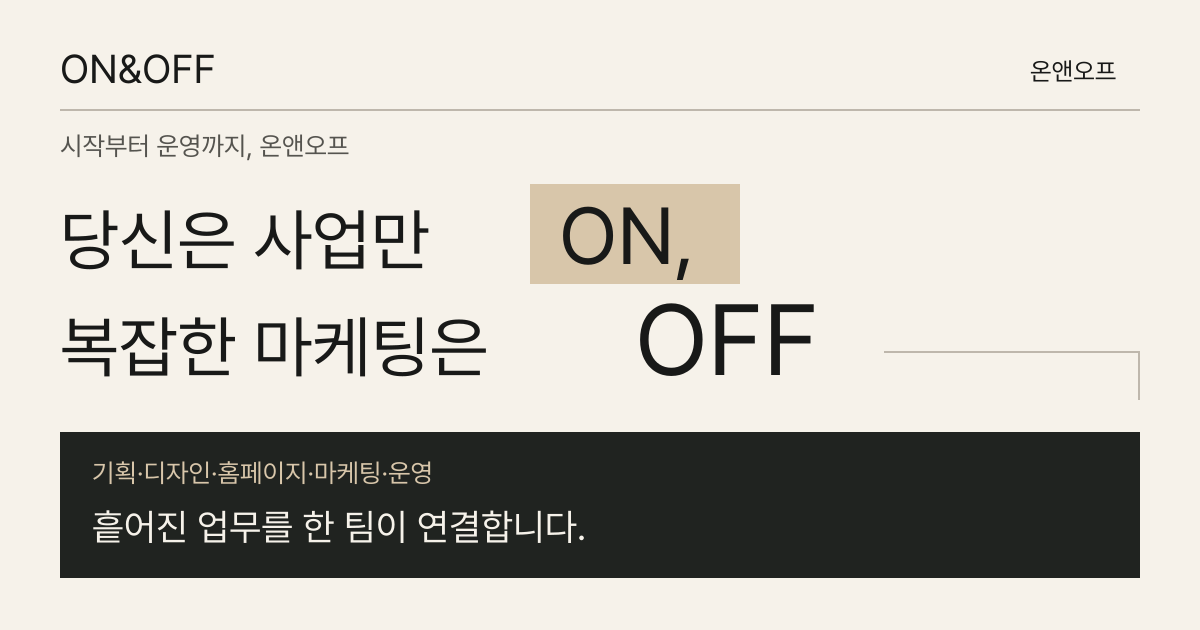
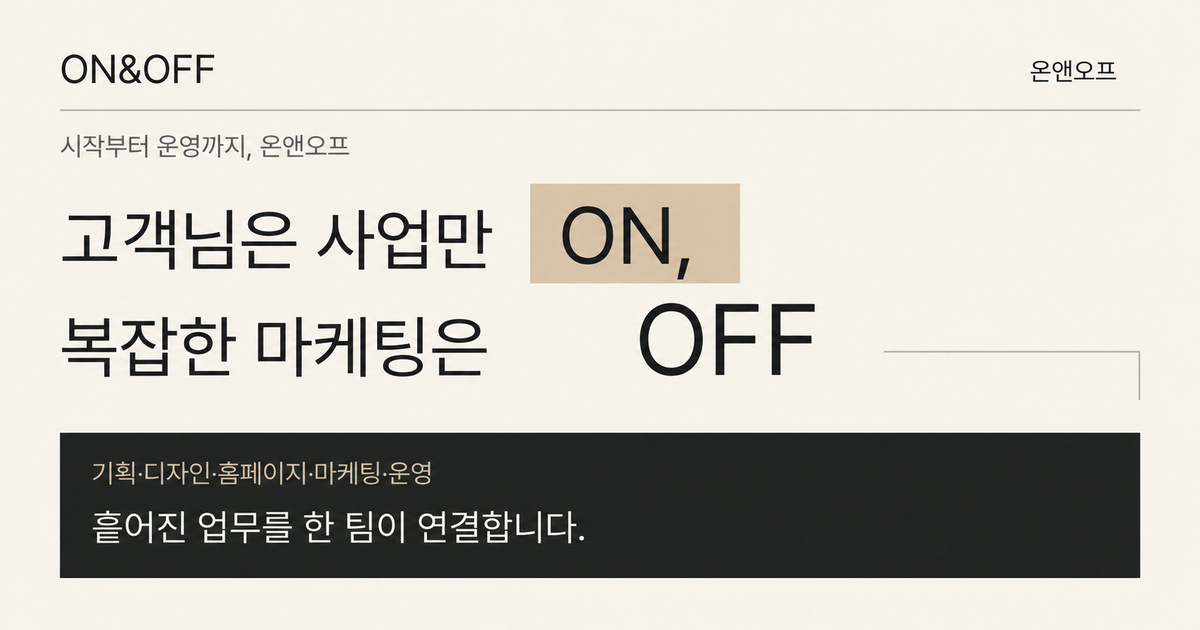
Remove fragments from all section navigation links

diff --git a/lib/scroll-navigation.ts b/lib/scroll-navigation.ts
@@ -1,4 +1,12 @@
 export const sectionNavigationEvent = 'onoff:section-navigation';
+const destinations = new WeakMap<Window, { id: string; page: string }>();
+
+// The loader needs the intended section even though it is absent from the URL.
+export function getNavigationHash(win: Window) {
+  const destination = destinations.get(win);
+  return destination?.page === `${win.location.pathname}${win.location.search}`
+    ? `#${destination.id}` : win.location.hash;
+}
 
 export function getScrollTarget(hash: string) {
   if (!hash.startsWith('#') || hash.length < 2) return null;
@@ -8,10 +16,12 @@ export function getScrollTarget(hash: string) {
   } catch { return null; }
 }
 
-// Native anchors remain available without JS and when opening a new tab.
-// Enhanced same-page clicks scroll without adding fragment history entries.
-export function createScrollNavigation(win: Window, doc: Document, Observer = MutationObserver) {
-  let pending: { id: string | null; page: string; behavior: ScrollBehavior; focus: boolean } | null = null;
+// Links expose clean URLs. Section destinations travel separately through the
+// persistent controller, including router transitions between different pages.
+export function createScrollNavigation(win: Window, doc: Document, Observer = MutationObserver, navigate?: (href: string) => void) {
+  const resumed = destinations.get(win);
+  let pending: { id: string | null; page: string; from?: string; behavior: ScrollBehavior; focus: boolean } | null = resumed
+    ? { ...resumed, behavior: 'instant', focus: false } : null;
   let frame: number | null = null;
   let disposed = false;
   const observer = new Observer(schedule);
@@ -20,6 +30,12 @@ export function createScrollNavigation(win: Window, doc: Document, Observer = Mu
 
   function clearHash() {
     if (win.location.hash) win.history.replaceState(win.history.state, '', pageURL());
+  }
+
+  function cancel() {
+    pending = null;
+    destinations.delete(win);
+    observer.disconnect();
   }
 
   function focusTarget(target: HTMLElement) {
@@ -39,17 +55,18 @@ export function createScrollNavigation(win: Window, doc: Document, Observer = Mu
   function apply() {
     frame = null;
     if (!pending || disposed) return;
-    if (pending.page !== pageURL()) { pending = null; observer.disconnect(); return; }
-    // Keep incoming fragments until HOME's loader releases scrolling, so its
-    // opening decision and recovery still recognize a direct section entry.
-    if (doc.querySelector('.scene-loader')) {
+    if (pending.page !== pageURL()) {
+      if (pending.from !== pageURL()) cancel();
+      return;
+    }
+    const target = pending.id ? doc.getElementById(pending.id) : null;
+    // Route completion and streamed content need not arrive in the same frame.
+    if (doc.querySelector('.scene-loader') || (pending.id && !target)) {
       observer.observe(doc.body, { childList: true, subtree: true });
       return;
     }
     const destination = pending;
-    pending = null;
-    observer.disconnect();
-    const target = destination.id ? doc.getElementById(destination.id) : null;
+    cancel();
     if (target) {
       target.scrollIntoView({ behavior: destination.behavior, block: 'start' });
       if (destination.focus) focusTarget(target);
@@ -62,41 +79,56 @@ export function createScrollNavigation(win: Window, doc: Document, Observer = Mu
   }
 
   function syncLocation() {
-    observer.disconnect();
-    pending = win.location.hash
-      ? { id: getScrollTarget(win.location.hash), page: pageURL(), behavior: 'instant', focus: false }
-      : null;
+    if (win.location.hash) {
+      const id = getScrollTarget(win.location.hash);
+      pending = { id, page: pageURL(), behavior: 'instant', focus: false };
+      if (id) destinations.set(win, { id, page: pageURL() });
+      else destinations.delete(win);
+      clearHash();
+      if (id) win.dispatchEvent(new CustomEvent(sectionNavigationEvent, { detail: id }));
+    } else if (pending?.page !== pageURL() && pending?.from !== pageURL()) cancel();
     schedule();
   }
+
+  function restoreHistory() { cancel(); syncLocation(); }
 
   function click(event: MouseEvent) {
     if (event.defaultPrevented || event.button !== 0 || event.metaKey || event.ctrlKey || event.shiftKey || event.altKey) return;
     const link = (event.target as Element | null)?.closest?.('a[href]') as HTMLAnchorElement | null;
     if (!link || link.hasAttribute('download') || (link.target && link.target !== '_self')) return;
     const destination = new URL(link.href, win.location.href);
-    if (destination.origin !== win.location.origin || `${destination.pathname}${destination.search}` !== pageURL()) return;
-    const id = getScrollTarget(destination.hash);
-    if (!id || !doc.getElementById(id)) return;
+    if (destination.origin !== win.location.origin) return;
+    const section = link.getAttribute('data-scroll-target');
+    const id = section ? getScrollTarget(`#${section}`) : getScrollTarget(destination.hash);
+    if (!id) return;
+    const samePage = destination.pathname === win.location.pathname &&
+      (destination.search === win.location.search || (!!section && !destination.search));
+    if (samePage ? !doc.getElementById(id) : !navigate) return;
     event.preventDefault();
-    pending = { id, page: pageURL(), behavior: win.matchMedia('(prefers-reduced-motion: reduce)').matches ? 'instant' : 'auto', focus: event.detail === 0 || link.classList.contains('service-skip') || link.classList.contains('inquiry-skip') };
+    const page = samePage ? pageURL() : `${destination.pathname}${destination.search}`;
+    pending = { id, page, from: samePage ? undefined : pageURL(), behavior: !samePage || win.matchMedia('(prefers-reduced-motion: reduce)').matches ? 'instant' : 'auto', focus: event.detail === 0 || link.classList.contains('service-skip') || link.classList.contains('inquiry-skip') };
+    destinations.set(win, { id, page });
     clearHash();
     win.dispatchEvent(new CustomEvent(sectionNavigationEvent, { detail: id }));
+    observer.observe(doc.body, { childList: true, subtree: true });
+    if (!samePage) navigate?.(page);
     schedule();
   }
 
   doc.addEventListener('click', click, { capture: true });
   win.addEventListener('hashchange', syncLocation);
-  win.addEventListener('popstate', syncLocation);
+  win.addEventListener('popstate', restoreHistory);
   syncLocation();
   return {
     syncLocation,
     dispose() {
+      // Preserve an unconsumed destination across React's effect reattachment.
       disposed = true; pending = null;
       if (frame !== null) win.cancelAnimationFrame(frame);
       observer.disconnect();
       doc.removeEventListener('click', click, { capture: true });
       win.removeEventListener('hashchange', syncLocation);
-      win.removeEventListener('popstate', syncLocation);
+      win.removeEventListener('popstate', restoreHistory);
       for (const restore of focused.values()) restore();
     },
   };

diff --git a/app/components/web-service-detail.tsx b/app/components/web-service-detail.tsx
@@ -16,20 +16,20 @@ function SourceLink({ href, children }: { href: string; children: React.ReactNod
 export default function WebServiceDetail({ service }: { service: WebService }) {
   return <ServiceDetailMotion slug="web">
     <div className="web-service">
-      <a className="service-skip" href="#service-main">본문으로 이동</a>
-      <header className="service-detail-header"><Link className="service-detail-brand" href="/#home" prefetch={false} aria-label="ON&OFF 홈">ON&OFF<span>ALL-IN-ONE AGENCY</span></Link><Link className="service-back" href="/#services" prefetch={false}>서비스 목록 <ServiceArrow/></Link></header>
+      <Link className="service-skip" href="/services/web" data-scroll-target="service-main" prefetch={false}>본문으로 이동</Link>
+      <header className="service-detail-header"><Link className="service-detail-brand" href="/" data-scroll-target="home" prefetch={false} aria-label="ON&OFF 홈">ON&OFF<span>ALL-IN-ONE AGENCY</span></Link><Link className="service-back" href="/" data-scroll-target="services" prefetch={false}>서비스 목록 <ServiceArrow/></Link></header>
       <main id="service-main">
         <section className="web-detail-hero" aria-labelledby="service-title">
-          <div className="web-hero-meta"><nav className="service-breadcrumb" aria-label="현재 위치"><Link href="/#services" prefetch={false}>SERVICES</Link><span aria-hidden="true">/</span><span aria-current="page">웹사이트 제작</span></nav><span>YOUR BUSINESS, ONLINE.</span></div>
+          <div className="web-hero-meta"><nav className="service-breadcrumb" aria-label="현재 위치"><Link href="/" data-scroll-target="services" prefetch={false}>SERVICES</Link><span aria-hidden="true">/</span><span aria-current="page">웹사이트 제작</span></nav><span>YOUR BUSINESS, ONLINE.</span></div>
           <div className="web-hero-word" aria-hidden="true">WEB</div>
           <div className="service-hero-layout web-hero-layout">
-            <div className="web-hero-copy"><p className="service-detail-kicker">WEBSITE / 기획 · 디자인 · 개발</p><h1 id="service-title">{service.headline.map(line => <span className="service-headline-line" key={line}><span>{line}</span></span>)}</h1><p className="service-detail-summary" data-service-reveal>{service.intro}</p><div className="web-hero-actions"><a className="web-button" href="#pricing">제작 유형·비용 보기 <ServiceArrow/></a><a className="web-text-link" href="#why-service">왜 필요할까요? ↓</a></div></div>
+            <div className="web-hero-copy"><p className="service-detail-kicker">WEBSITE / 기획 · 디자인 · 개발</p><h1 id="service-title">{service.headline.map(line => <span className="service-headline-line" key={line}><span>{line}</span></span>)}</h1><p className="service-detail-summary" data-service-reveal>{service.intro}</p><div className="web-hero-actions"><Link className="web-button" href="/services/web" data-scroll-target="pricing" prefetch={false}>제작 유형·비용 보기 <ServiceArrow/></Link><Link className="web-text-link" href="/services/web" data-scroll-target="why-service" prefetch={false}>왜 필요할까요? ↓</Link></div></div>
             <figure className="service-hero-art web-device-photo"><div className="web-photo-mat"><Image src={devices} width={1440} height={1152} alt="노트북과 휴대폰에 화면 크기에 맞춰 표시된 웹사이트" unoptimized loading="eager" fetchPriority="high"/><span className="web-photo-label">PC부터 모바일까지</span></div><figcaption>외부 참고 이미지 · Azwedo L.LC / Unsplash</figcaption></figure>
           </div>
-          <div className="web-hero-bottom"><span>회사 소개 · 서비스 안내 · 고객 문의</span><a href="#why-service" aria-label="홈페이지가 필요한 이유 읽기">SCROLL TO EXPLORE ↓</a></div>
+          <div className="web-hero-bottom"><span>회사 소개 · 서비스 안내 · 고객 문의</span><Link href="/services/web" data-scroll-target="why-service" aria-label="홈페이지가 필요한 이유 읽기" prefetch={false}>SCROLL TO EXPLORE ↓</Link></div>
         </section>
 
-        <nav className="service-detail-nav" aria-label="상세 안내"><a href="#why-service">웹사이트가 필요한 순간</a><a href="#service-effects">우리가 만드는 웹사이트</a><a href="#service-scope">진행 과정</a><a href="#pricing">서비스 안내</a><a href="#web-faq">FAQ</a></nav>
+        <nav className="service-detail-nav" aria-label="상세 안내"><Link href="/services/web" data-scroll-target="why-service" prefetch={false}>웹사이트가 필요한 순간</Link><Link href="/services/web" data-scroll-target="service-effects" prefetch={false}>우리가 만드는 웹사이트</Link><Link href="/services/web" data-scroll-target="service-scope" prefetch={false}>진행 과정</Link><Link href="/services/web" data-scroll-target="pricing" prefetch={false}>서비스 안내</Link><Link href="/services/web" data-scroll-target="web-faq" prefetch={false}>FAQ</Link></nav>
 
         <section className="service-content-section web-detail-chapter web-why" id="why-service" aria-labelledby="web-why-title">
           <div className="web-chapter-heading" data-service-reveal><span className="web-eyebrow">01 / WHY A WEBSITE</span><h2 id="web-why-title">검색한 고객이<br/>우리 회사를 알 수 있도록</h2><p>홈페이지는 회사 소개, 서비스, 실적과 연락처를 한 주소에 모은 온라인 안내 공간입니다. 고객이 궁금한 내용을 확인하고 문의할 수 있게 만듭니다.</p></div>

diff --git a/app/components/professional-service-detail.tsx b/app/components/professional-service-detail.tsx
@@ -24,22 +24,23 @@ export default function ProfessionalServiceDetail({ service }: { service: Profes
   const pricingIntro = 'pricingIntro' in detail
     ? detail.pricingIntro
     : <>{service.pricing.summary}<br/>아래 유형을 참고해 필요한 범위를 알려주세요.</>;
+  const servicePath = `/services/${service.slug}`;
   const inquiryHref = `/inquiry?service=${service.slug}&from=services`;
   const heroAction = service.slug === 'design'
-    ? { href: '#service-scope', label: '디자인 서비스 안내' }
-    : { href: '#pricing', label: '작업 유형·비용 보기' };
+    ? { target: 'service-scope', label: '디자인 서비스 안내' }
+    : { target: 'pricing', label: '작업 유형·비용 보기' };
   return <ServiceDetailMotion key={service.slug} slug={service.slug}>
     <div className="service-guide" data-guide={service.slug}>
-      <a className="service-skip" href="#service-main">본문으로 이동</a>
-      <header className="service-detail-header"><Link className="service-detail-brand" href="/#home" prefetch={false} aria-label="ON&OFF 홈">ON&OFF<span>ALL-IN-ONE AGENCY</span></Link><Link className="service-back" href="/#services" prefetch={false}>서비스 목록 <ServiceArrow/></Link></header>
+      <Link className="service-skip" href={servicePath} data-scroll-target="service-main" prefetch={false}>본문으로 이동</Link>
+      <header className="service-detail-header"><Link className="service-detail-brand" href="/" data-scroll-target="home" prefetch={false} aria-label="ON&OFF 홈">ON&OFF<span>ALL-IN-ONE AGENCY</span></Link><Link className="service-back" href="/" data-scroll-target="services" prefetch={false}>서비스 목록 <ServiceArrow/></Link></header>
       <main id="service-main">
         <section className="guide-hero" aria-labelledby="service-title">
-          <div className="guide-hero-meta"><nav className="service-breadcrumb" aria-label="현재 위치"><Link href="/#services" prefetch={false}>SERVICES</Link><span aria-hidden="true">/</span><span aria-current="page">{service.name}</span></nav><span>SERVICE GUIDE / {service.number}</span></div>
+          <div className="guide-hero-meta"><nav className="service-breadcrumb" aria-label="현재 위치"><Link href="/" data-scroll-target="services" prefetch={false}>SERVICES</Link><span aria-hidden="true">/</span><span aria-current="page">{service.name}</span></nav><span>SERVICE GUIDE / {service.number}</span></div>
           <div className="guide-hero-word" aria-hidden="true">{detail.word}</div>
-          <div className="service-hero-layout guide-hero-layout"><div className="guide-hero-copy"><p className="service-detail-kicker">{detail.kicker}</p><h1 id="service-title">{service.headline.map(line => <span className="service-headline-line" key={line}><span>{line}</span></span>)}</h1><p className="service-detail-summary" data-service-reveal>{service.intro}</p><a className="guide-button" href={heroAction.href}>{heroAction.label} <ServiceArrow/></a></div><DetailHeroVisual slug={service.slug}/></div>
-          <div className="guide-hero-bottom"><ul>{detail.heroTags.map(tag => <li key={tag}>{tag}</li>)}</ul><a href="#why-service">서비스 자세히 보기 ↓</a></div>
+          <div className="service-hero-layout guide-hero-layout"><div className="guide-hero-copy"><p className="service-detail-kicker">{detail.kicker}</p><h1 id="service-title">{service.headline.map(line => <span className="service-headline-line" key={line}><span>{line}</span></span>)}</h1><p className="service-detail-summary" data-service-reveal>{service.intro}</p><Link className="guide-button" href={servicePath} data-scroll-target={heroAction.target} prefetch={false}>{heroAction.label} <ServiceArrow/></Link></div><DetailHeroVisual slug={service.slug}/></div>
+          <div className="guide-hero-bottom"><ul>{detail.heroTags.map(tag => <li key={tag}>{tag}</li>)}</ul><Link href={servicePath} data-scroll-target="why-service" prefetch={false}>서비스 자세히 보기 ↓</Link></div>
         </section>
-        <nav className="service-detail-nav guide-nav" aria-label="상세 안내"><a href="#why-service">{detail.navLabels.why}</a><a href="#service-scope">{detail.navLabels.scope}</a><a href="#service-process">진행 과정</a><a href="#pricing">서비스 안내</a><a href="#service-faq">FAQ</a></nav>
+        <nav className="service-detail-nav guide-nav" aria-label="상세 안내"><Link href={servicePath} data-scroll-target="why-service" prefetch={false}>{detail.navLabels.why}</Link><Link href={servicePath} data-scroll-target="service-scope" prefetch={false}>{detail.navLabels.scope}</Link><Link href={servicePath} data-scroll-target="service-process" prefetch={false}>진행 과정</Link><Link href={servicePath} data-scroll-target="pricing" prefetch={false}>서비스 안내</Link><Link href={servicePath} data-scroll-target="service-faq" prefetch={false}>FAQ</Link></nav>
 
         <section className="service-content-section guide-chapter guide-why" id="why-service" aria-labelledby="guide-why-title">
           <div className="guide-chapter-heading" data-service-reveal><span className="guide-eyebrow">{whyLabel}</span><h2 id="guide-why-title">{whyTitle[0]}<br/>{whyTitle[1]}</h2><p>{service.importance}</p></div>

diff --git a/app/components/project-inquiry.tsx b/app/components/project-inquiry.tsx
@@ -102,8 +102,8 @@ export default function ProjectInquiry({ initialService, returnTo }: { initialSe
   const error = (key: keyof InquiryDraft) => errors[key] ? <p className="inquiry-error" id={`inquiry-${key}-error`}>{errors[key]}</p> : null;
 
   return <div className="inquiry-page">
-    <a className="inquiry-skip" href="#inquiry-form">문의 작성으로 이동</a>
-    <header className="inquiry-header"><Link href={`/#${returnTo}`} prefetch={false} className="inquiry-brand" aria-label="ON&OFF 홈페이지">ON&OFF<span>ALL-IN-ONE AGENCY</span></Link><Link href={`/#${returnTo}`} prefetch={false} className="inquiry-back"><ArrowLeft aria-hidden="true"/> 둘러보던 페이지로</Link></header>
+    <Link className="inquiry-skip" href="/inquiry" data-scroll-target="inquiry-form" prefetch={false}>문의 작성으로 이동</Link>
+    <header className="inquiry-header"><Link href="/" data-scroll-target={returnTo} prefetch={false} className="inquiry-brand" aria-label="ON&OFF 홈페이지">ON&OFF<span>ALL-IN-ONE AGENCY</span></Link><Link href="/" data-scroll-target={returnTo} prefetch={false} className="inquiry-back"><ArrowLeft aria-hidden="true"/> 둘러보던 페이지로</Link></header>
     <div className="inquiry-columns">
       <aside className="inquiry-intro">
         <div className="inquiry-intro-inner">
@@ -111,7 +111,7 @@ export default function ProjectInquiry({ initialService, returnTo }: { initialSe
           <p className="inquiry-display" aria-hidden="true"><span>LET’S</span><span>START<span className="inquiry-lime">.</span></span></p>
           <h1>어떤 일이<br/><span>필요하신가요?</span></h1>
           <p className="inquiry-intro-copy">한 가지 작업부터 통합 운영까지.<br/> 지금 필요한 일부터 알려주세요.</p>
-          <nav className="inquiry-index" aria-label="문의 작성 항목"><a href="#inquiry-services"><span>01</span> 필요한 서비스 <ArrowUpRight aria-hidden="true"/></a><a href="#inquiry-project"><span>02</span> 프로젝트 소개 <ArrowUpRight aria-hidden="true"/></a><a href="#inquiry-contact"><span>03</span> 담당자 정보 <ArrowUpRight aria-hidden="true"/></a></nav>
+          <nav className="inquiry-index" aria-label="문의 작성 항목"><Link href="/inquiry" data-scroll-target="inquiry-services" prefetch={false}><span>01</span> 필요한 서비스 <ArrowUpRight aria-hidden="true"/></Link><Link href="/inquiry" data-scroll-target="inquiry-project" prefetch={false}><span>02</span> 프로젝트 소개 <ArrowUpRight aria-hidden="true"/></Link><Link href="/inquiry" data-scroll-target="inquiry-contact" prefetch={false}><span>03</span> 담당자 정보 <ArrowUpRight aria-hidden="true"/></Link></nav>
           <div className="inquiry-intro-contact"><span>EMAIL US</span><a href={`mailto:${consultationEmail}`}>{consultationEmail} <ArrowUpRight aria-hidden="true"/></a>{consultationChatEnabled && <div className="inquiry-chat-entry"><ConsultationChat/></div>}</div>
         </div>
       </aside>
@@ -153,7 +153,7 @@ export default function ProjectInquiry({ initialService, returnTo }: { initialSe
           </fieldset>
         </form>
         <details className="inquiry-consent-preview inquiry-public-privacy" id="inquiry-privacy"><summary>프로젝트 문의 개인정보 처리 안내</summary><p>{inquiryPrivacyNotice}</p><p>{inquiryOverseasNotice}</p></details>
-        <footer className="inquiry-footer"><span>© 2026 ON&OFF</span><Link href="/#services" prefetch={false}>서비스 다시 보기 <ArrowUpRight aria-hidden="true"/></Link></footer>
+        <footer className="inquiry-footer"><span>© 2026 ON&OFF</span><Link href="/" data-scroll-target="services" prefetch={false}>서비스 다시 보기 <ArrowUpRight aria-hidden="true"/></Link></footer>
       </main>
     </div>
     <Dialog open={review} onOpenChange={open => { if (!sending.current) setReview(open); }}>

diff --git a/app/components/scene-loader.tsx b/app/components/scene-loader.tsx
@@ -9,6 +9,7 @@ import { getLoadingOrbitPoints, sceneOrbit } from '@/lib/scene-orbit';
 import { formatSceneWait, getInitialSceneTiming, sceneLoadingTiming, type SceneIssue, type SceneStatus } from '@/lib/scene-loading';
 import { resolveSiteSection } from '@/lib/site-sections';
 import { shouldPlayHomeOpening } from '@/lib/home-opening';
+import { getNavigationHash } from '@/lib/scroll-navigation';
 import HeroOpening, { type OpeningResult } from './hero-opening';
 
 // A new document gets an opening. Router returns within that document do not.
@@ -70,9 +71,10 @@ export default function SceneLoader({ status, progress, elapsed, issue, onContin
       const initialPath = new URL(navigation?.name || window.location.href).pathname;
       const claimed = visitedDocuments.has(document);
       const reduced = window.matchMedia('(prefers-reduced-motion: reduce)').matches;
-      const options = { claimed, initialPath, navigationType: navigation?.type || 'navigate', hash: location.hash, scrollY: window.scrollY, reduced };
+      const hash = getNavigationHash(window);
+      const options = { claimed, initialPath, navigationType: navigation?.type || 'navigate', hash, scrollY: window.scrollY, reduced };
       const nextMode = shouldPlayHomeOpening(options) ? 'opening' : claimed || initialPath !== '/' || navigation?.type === 'back_forward' ? 'resume' : 'standard';
-      entry.current = { mode: nextMode, hash: location.hash, reduced };
+      entry.current = { mode: nextMode, hash, reduced };
       visitedDocuments.add(document);
     }
     const decision = entry.current;
@@ -127,9 +129,10 @@ export default function SceneLoader({ status, progress, elapsed, issue, onContin
       if (page) page.inert = previousInert;
       // Initial fragment navigation may run before the loader releases the
       // scroll lock. Use the untransformed section anchor once it is released.
-      const section = resolveSiteSection(window.location.hash.slice(1));
+      const hash = getNavigationHash(window);
+      const section = resolveSiteSection(hash.slice(1));
       if (section) document.getElementById(section)?.scrollIntoView({ behavior: 'instant', block: 'start' });
-      if (focusAfterSkip.current && (!location.hash || location.hash === '#home')) page?.focus({ preventScroll: true });
+      if (focusAfterSkip.current && (!hash || hash === '#home')) page?.focus({ preventScroll: true });
     };
   }, [visible]);
 

diff --git a/app/home-content.tsx b/app/home-content.tsx
@@ -1,5 +1,7 @@
 'use client';
 
+import Link from './components/page-link';
+
 import { useCallback, useRef, useState } from 'react';
 import CardRibbon from './components/card-ribbon';
 import Wordmark from './components/wordmark';
@@ -163,9 +165,9 @@ export default function Home() {
     <SectionEntry id="why" onCovered={setHeroCovered} onNavigation={handleWhyNavigation} front={
     <section className={`hero${paused ? ' is-paused' : ''}`} aria-label="ON&OFF 소개" aria-busy={sceneStatus === 'loading'} inert={heroCovered}>
       <header className="site-header">
-        <a className="brand" href="#home" aria-label="ON&OFF home">
+        <Link className="brand" href="/" data-scroll-target="home" aria-label="ON&OFF home" prefetch={false}>
           <img className="brand-logo" src="/images/onoff-logo.png" alt="ON&OFF" width={96} height={48} fetchPriority="high"/>
-        </a>
+        </Link>
         <div className="header-colophon" aria-label="회사 정보">
           <div className="colophon-meta">
             <p className="header-copyright">
@@ -184,7 +186,7 @@ export default function Home() {
 
       <div className="scene-track" aria-hidden="true"/>
       <div className="hero-copy">
-        <p className="hero-caption">당신은 사업만 <span className="hero-caption-emphasis">ON</span><br/>복잡한 마케팅은 <span className="hero-caption-emphasis">OFF</span></p>
+        <p className="hero-caption">고객님은 사업만 <span className="hero-caption-emphasis">ON</span><br/>복잡한 마케팅은 <span className="hero-caption-emphasis">OFF</span></p>
       </div>
       <CardRibbon key={sceneAttempt} paused={paused || openingHold} active={!heroCovered} direction={direction} enabled={sceneStatus !== 'fallback' && sceneRuntime !== 'fallback'} onTogglePause={() => setPaused(value => !value)} onSettled={handleSceneReady} onProgress={setSceneProgress} onElapsed={setSceneElapsed} onError={handleSceneError} onRecoveryChange={handleRecoveryChange}/>
       <footer className="hero-footer">

diff --git a/app/components/service-footer.tsx b/app/components/service-footer.tsx
@@ -11,7 +11,7 @@ export default function ServiceFooter({ currentService, children }: {
 }) {
   return <footer className="service-footer" aria-label="온앤오프 회사 정보와 이용 안내">
     <div className="service-footer-head">
-      <Link className="service-footer-brand" href="/#home" prefetch={false} aria-label="ON&OFF 홈">
+      <Link className="service-footer-brand" href="/" data-scroll-target="home" prefetch={false} aria-label="ON&OFF 홈">
         ON&OFF<span>ALL-IN-ONE AGENCY</span>
       </Link>
       <p>기획부터 제작·운영까지,<br/>한 팀에서 이어갑니다.</p>
@@ -56,7 +56,7 @@ export default function ServiceFooter({ currentService, children }: {
     </div>
     <div className="service-footer-bottom">
       <small>© 2026 ON&OFF. All rights reserved.</small>
-      <nav aria-label="푸터 바로가기"><Link href="/#services" prefetch={false}>전체 서비스</Link><a href="#service-main">맨 위로 ↑</a></nav>
+      <nav aria-label="푸터 바로가기"><Link href="/" data-scroll-target="services" prefetch={false}>전체 서비스</Link><Link href={`/services/${currentService}`} data-scroll-target="service-main" prefetch={false}>맨 위로 ↑</Link></nav>
     </div>
   </footer>;
 }

diff --git a/app/components/scroll-navigation.tsx b/app/components/scroll-navigation.tsx
@@ -1,14 +1,20 @@
 'use client';
 
 import { useEffect, useRef } from 'react';
-import { usePathname } from 'next/navigation';
+import { usePathname, useRouter } from 'next/navigation';
 import { createScrollNavigation } from '@/lib/scroll-navigation';
 
 export default function ScrollNavigation() {
   const pathname = usePathname();
+  const router = useRouter();
+  const routerRef = useRef(router);
+  useEffect(() => { routerRef.current = router; }, [router]);
   const navigation = useRef<ReturnType<typeof createScrollNavigation> | null>(null);
   useEffect(() => {
-    const controller = createScrollNavigation(window, document);
+    const controller = createScrollNavigation(window, document, MutationObserver, href => {
+      window.scrollTo({ left: window.scrollX, top: window.scrollY, behavior: 'instant' });
+      routerRef.current.push(href, { scroll: false });
+    });
     navigation.current = controller;
     return () => { controller.dispose(); navigation.current = null; };
   }, []);

diff --git a/app/components/site-controls.tsx b/app/components/site-controls.tsx
@@ -35,10 +35,10 @@ export default function SiteControls({ currentSection, paused, filmReady }: { cu
         <ol className="section-nav-list">
           {sections.map(section => (
             <li key={section.id}>
-              <a className="section-nav-link" href={`#${section.id}`} aria-current={currentSection === section.id ? 'location' : undefined} aria-label={section.description}>
+              <Link className="section-nav-link" href="/" data-scroll-target={section.id} aria-current={currentSection === section.id ? 'location' : undefined} aria-label={section.description} prefetch={false}>
                 <span className="section-nav-number" aria-hidden="true">{section.number}</span>
                 <span className="section-nav-label">{section.label}</span>
-              </a>
+              </Link>
             </li>
           ))}
         </ol>

diff --git a/app/services/[slug]/not-found.tsx b/app/services/[slug]/not-found.tsx
@@ -1,5 +1,5 @@
 import Link from 'next/link';
 
 export default function ServiceNotFound() {
-  return <main className="service-not-found"><p>ON&OFF / 404</p><h1>서비스를 찾을 수 없습니다.</h1><p>주소를 확인하거나 서비스 목록에서 다시 선택해 주세요.</p><Link href="/#services" prefetch={false}>서비스 목록으로 돌아가기 ↗</Link></main>;
+  return <main className="service-not-found"><p>ON&OFF / 404</p><h1>서비스를 찾을 수 없습니다.</h1><p>주소를 확인하거나 서비스 목록에서 다시 선택해 주세요.</p><Link href="/" data-scroll-target="services" prefetch={false}>서비스 목록으로 돌아가기 ↗</Link></main>;
 }

diff --git a/app/components/web-section.tsx b/app/components/web-section.tsx
@@ -1,5 +1,7 @@
 'use client';
 
+import Link from './page-link';
+
 import { useEffect, useRef, useState } from 'react';
 import { Play } from 'lucide-react';
 import { Button } from '@/components/ui/button';
@@ -103,7 +105,7 @@ export default function WebSection({ active, paused, covered }: {
       </div>
       <footer className="web-footer">
         <p>기획 · UI/UX · 웹사이트 제작 · 운영</p>
-        <a href="#card">NEXT / MARKETING <span aria-hidden="true">↗</span></a>
+        <Link href="/" data-scroll-target="card" prefetch={false}>NEXT / MARKETING <span aria-hidden="true">↗</span></Link>
       </footer>
     </section>
   );

diff --git a/app/components/service-detail-motion.tsx b/app/components/service-detail-motion.tsx
@@ -64,7 +64,7 @@ export default function ServiceDetailMotion({ slug, children }: { slug: string; 
       let current = sections[0]?.id;
       for (const section of sections) if (section.getBoundingClientRect().top <= 180) current = section.id;
       navLinks.forEach(link => {
-        if (link.hash === `#${current}`) link.setAttribute('aria-current', 'location');
+        if (link.dataset.scrollTarget === current) link.setAttribute('aria-current', 'location');
         else link.removeAttribute('aria-current');
       });
     }
